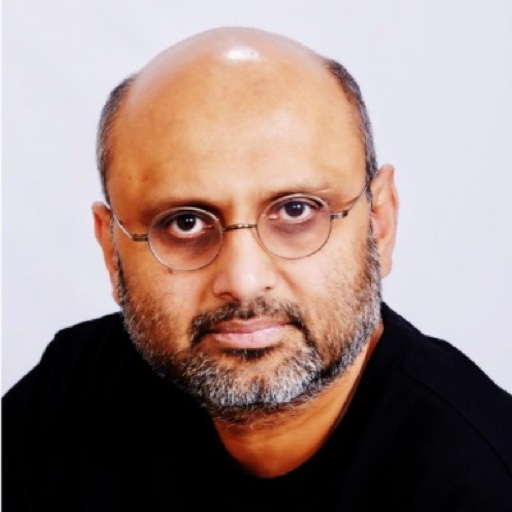
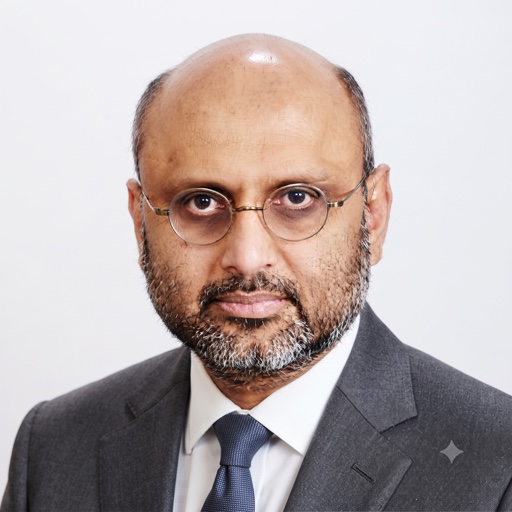
Use higher-resolution studio photo for Srinivas Chamarthi
Replaces a 400px crop that was visibly soft at desktop size. Same studio
session as the new Shankar photo, so the first two cards now read as a
matched pair. Normalised to the same 512x512 as the rest of the set.

diff --git a/logs/PROJECT_LOG.md b/logs/PROJECT_LOG.md
@@ -683,3 +683,15 @@
 **Verification:** set still 10 files, all distinct by MD5. Screenshots re-captured; the card reads at the same value as its neighbours rather than brighter.
 
 **Status:** ✅ SUCCESS
+
+## 2026-09-22 — Leadership section: Srinivas Chamarthi photo upgraded
+
+**Change:** `public/images/leadership/srinivas-chamarthi.jpg` replaced with a 2048×2048 studio original (same subject), re-normalised to 512×512 JPEG q88.
+
+**Why:** the previous file was a 400px LinkedIn-style crop and was visibly soft at desktop size. Same studio session as the new Shankar photo, so slots 1 and 2 now read as a matched pair at the head of the grid.
+
+**Note:** this source is framed tighter than the rest — the head fills more of the 4:5 frame with less headroom. Nothing to fix in code (the crop is inherent to the source), but if a looser original exists it would sit more evenly beside its neighbours.
+
+**Verification:** 10 files, all distinct by MD5; screenshots re-captured at all three breakpoints.
+
+**Status:** ✅ SUCCESS
